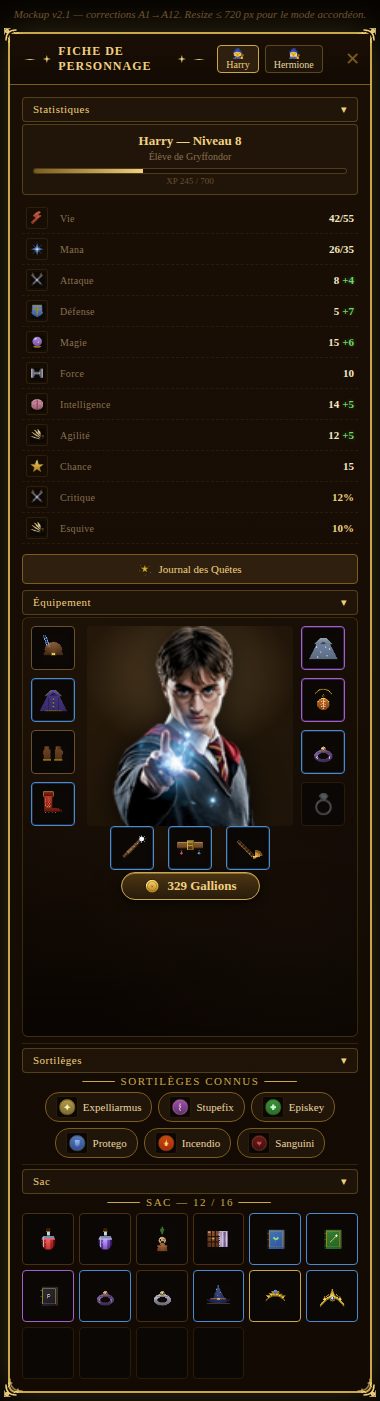
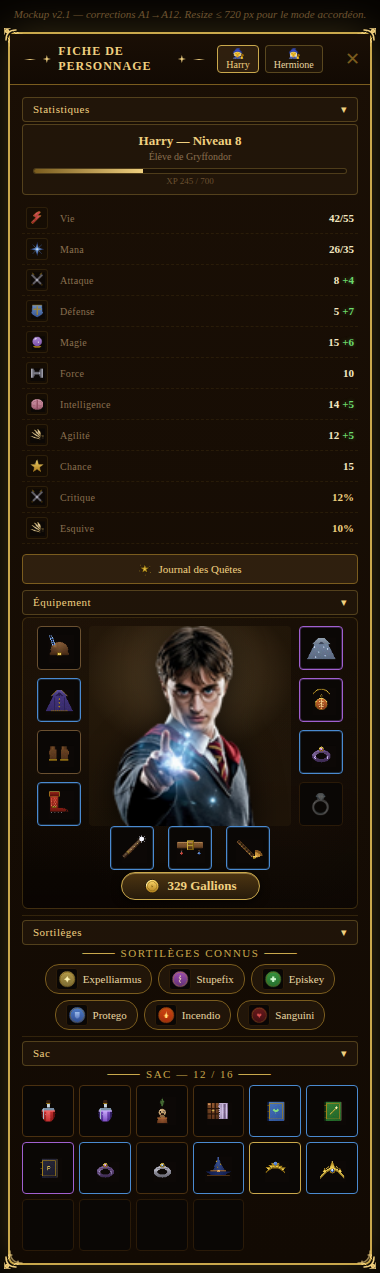
fix(character): mockup v2.17 — supprime min-height mobile (143→15 px de gap)
Diagnostic : sur la v2.16 mobile, gap mesuré gold-banner→spells = 143 px.
Cause : règle CSS .paper-doll { min-height:420px; } dans le media query
mobile. Le paper-doll faisait 420 px de haut alors que son contenu
(paper-doll-main 200 + bottom 56 + gold 28 + paddings ~16) faisait
seulement ~300 px. Reste : 120 px de vide en bas, dans le paper-doll.

Aussi : grid-template-columns:48px 1fr 48px en mobile contredisait le
50px auto 50px de desktop → 4 px de vide horizontal résiduel.

Corrections (media query ≤ 720px) :
- Suppression de min-height:420px
- grid-template-columns: 44px auto 44px (cohérent avec desktop)

Mesures v2.17 :
- mobile gap gold-banner→spells : 143 px → 15 px (gain 128 px)
- mobile gap spells→inv         : 6 px (inchangé)

Constat visuel : sur la capture mobile, le bouton "Sortilèges" est
maintenant directement sous le gold-banner. Plus de "trou
intersidéral".

Note : desktop a encore 161 px de gap (cause structurelle différente,
stats section plus haute que équipement → grid stretche la row).
Non traité, utilisateur a ciblé "surtout mobile". Demander avant de
toucher le desktop layout.

diff --git a/tools/screenshot-mockup-annotated.js b/tools/screenshot-mockup-annotated.js
@@ -33,9 +33,18 @@ const TAG = 'v25';
       const main  = document.querySelector('.paper-doll-main');
       const pd    = document.querySelector('.paper-doll');
       const bot   = document.querySelector('.paper-doll-bottom');
+      const spells = document.querySelector('.spells-strip');
+      const inv    = document.querySelector('.inv-section');
+      const gold   = document.querySelector('.gold-banner');
       if (!img || !stage || !pd) return null;
       const r = (el) => { const b = el.getBoundingClientRect(); return { x:b.x, y:b.y, w:b.width, h:b.height }; };
-      return { img:r(img), stage:r(stage), main:r(main), pd:r(pd), bot:bot?r(bot):null };
+      return {
+        img:r(img), stage:r(stage), main:r(main), pd:r(pd),
+        bot:bot?r(bot):null,
+        spells:spells?r(spells):null,
+        inv:inv?r(inv):null,
+        gold:gold?r(gold):null
+      };
     });
 
     if (measure) {
@@ -70,6 +79,14 @@ const TAG = 'v25';
         console.log(`   gap stage vs main (top):   ${Math.round(gapTop)}px`);
         console.log(`   gap img vs stage (top):    ${Math.round(gapImgInStage)}px`);
         console.log(`   gap stage→bottom (bottom): ${Math.round(gapBot)}px`);
+      }
+      if (measure.gold && measure.spells) {
+        const gap = measure.spells.y - (measure.gold.y + measure.gold.h);
+        console.log(`   gap gold-banner→spells:    ${Math.round(gap)}px`);
+      }
+      if (measure.spells && measure.inv) {
+        const gap = measure.inv.y - (measure.spells.y + measure.spells.h);
+        console.log(`   gap spells→inv:            ${Math.round(gap)}px`);
       }
     }
     await ctx.close();

diff --git a/tools/mockup_character_v2.html b/tools/mockup_character_v2.html
@@ -390,8 +390,9 @@ body {
   .spells-strip, .inv-section { margin-top:6px; padding-top:4px; }
   .panel-title { margin:0 0 4px; }
   /* A10 — mobile : flex/grid identique, juste tailles réduites */
-  .paper-doll   { min-height:420px; }
-  .paper-doll-main { grid-template-columns: 48px 1fr 48px; }
+  /* mobile : pas de min-height (cause 120 px de vide en bas).
+     grid-template auto pour aligner stage = image, comme desktop. */
+  .paper-doll-main { grid-template-columns: 44px auto 44px; }
   .equip-slot   { width:44px; height:44px; font-size:20px; }
   .equip-slot img { width:30px; height:30px; }
   .inv-grid { grid-template-columns:repeat(6, 1fr); }
